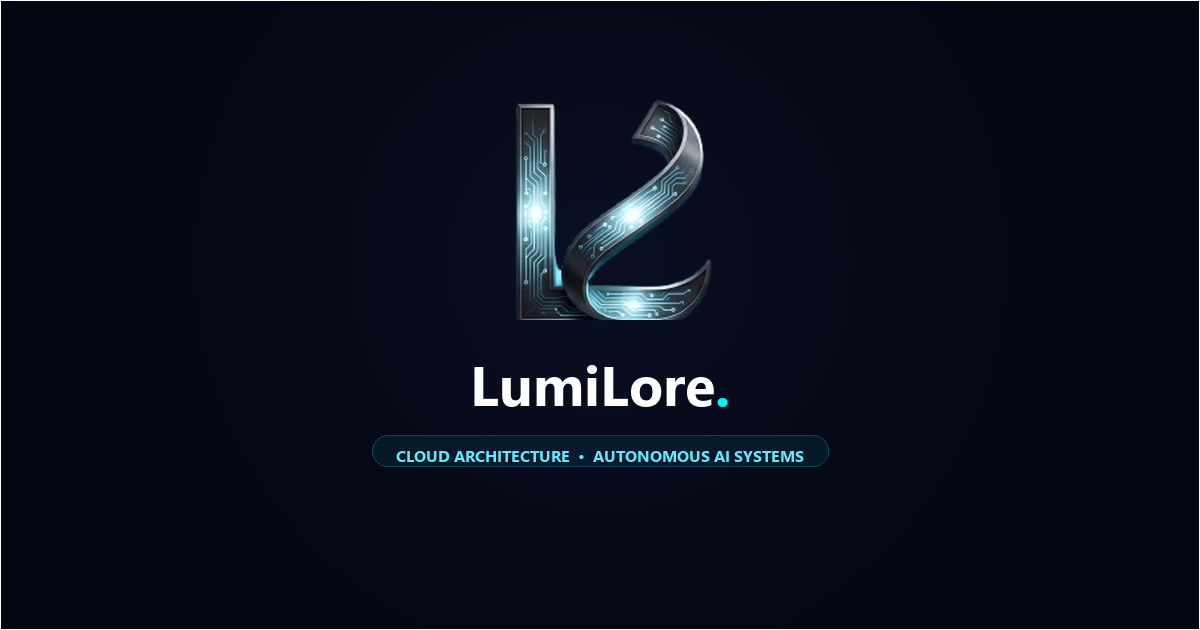
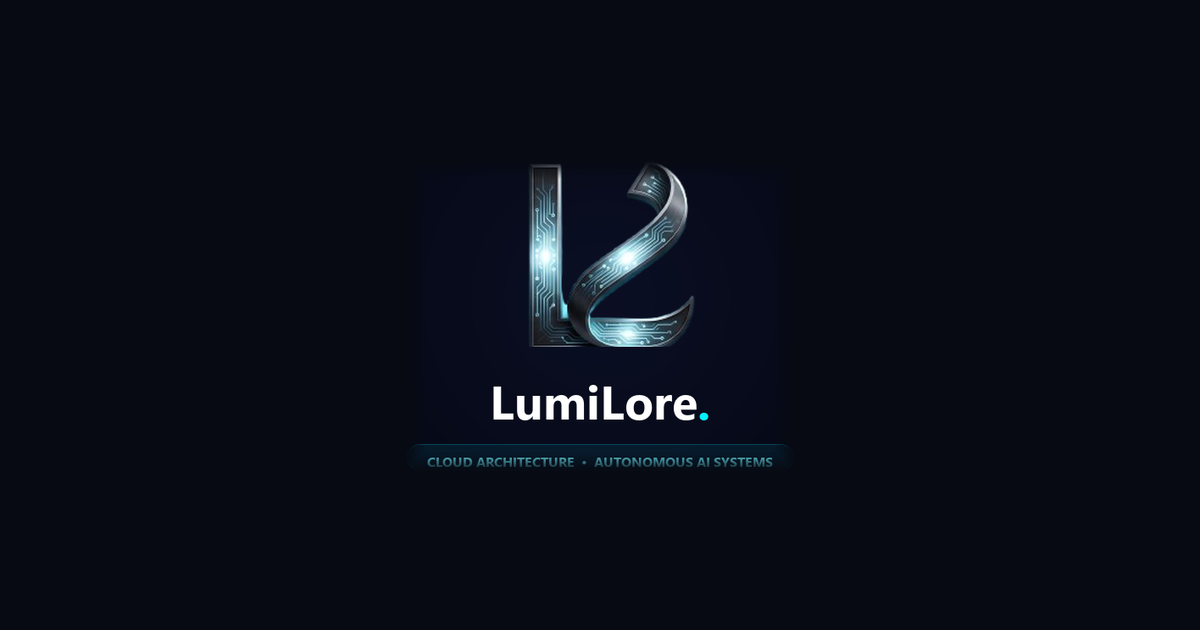
feat(seo): center og-preview within 500x500 safe zone and route meta tags to root og-preview.png

Changed region(s): [[0.3083, 0.1508, 0.6783, 0.754], [0.0, 0.9952, 1.0, 1.0], [0.9867, 0.0, 1.0, 0.0302]]

diff --git a/frontend/_includes/layout.html b/frontend/_includes/layout.html
@@ -13,19 +13,23 @@
   <meta property="og:url" content="https://main.d324aep99upgew.amplifyapp.com/">
   <meta property="og:title" content="LumiLore Technologies — Cloud Architecture & AI Systems">
   <meta property="og:description" content="Pairing certified cloud architecture with multi-step AI agents to eliminate manual tasks and scale your enterprise infinitely.">
-  <meta property="og:image" content="https://main.d324aep99upgew.amplifyapp.com/assets/og-preview.png">
-  <meta property="og:image:secure_url" content="https://main.d324aep99upgew.amplifyapp.com/assets/og-preview.png">
+  <meta property="og:image" content="https://main.d324aep99upgew.amplifyapp.com/og-preview.png">
+  <meta property="og:image:secure_url" content="https://main.d324aep99upgew.amplifyapp.com/og-preview.png">
   <meta property="og:image:type" content="image/png">
   <meta property="og:image:width" content="1200">
   <meta property="og:image:height" content="630">
   <meta property="og:image:alt" content="LumiLore Technologies — Cloud Architecture & AI Intelligent Systems">
+
+  <!-- Fallback & Mobile Messaging Meta Tags (WhatsApp, iMessage, SMS, RCS, Google) -->
+  <link rel="image_src" href="https://main.d324aep99upgew.amplifyapp.com/og-preview.png">
+  <meta itemprop="image" content="https://main.d324aep99upgew.amplifyapp.com/og-preview.png">
 
   <!-- Twitter Card -->
   <meta name="twitter:card" content="summary_large_image">
   <meta name="twitter:url" content="https://main.d324aep99upgew.amplifyapp.com/">
   <meta name="twitter:title" content="LumiLore Technologies — Cloud Architecture & AI Systems">
   <meta name="twitter:description" content="Pairing certified cloud architecture with multi-step AI agents to eliminate manual tasks and scale your enterprise infinitely.">
-  <meta name="twitter:image" content="https://main.d324aep99upgew.amplifyapp.com/assets/og-preview.png">
+  <meta name="twitter:image" content="https://main.d324aep99upgew.amplifyapp.com/og-preview.png">
   
   <!-- Enterprise Content Security Policy (Layer 3: DOM Hardening) -->
   <meta http-equiv="Content-Security-Policy" content="default-src 'self'; script-src 'self' 'unsafe-inline' https://cdnjs.cloudflare.com https://cdn.jsdelivr.net; style-src 'self' 'unsafe-inline' https://fonts.googleapis.com https://cdn.jsdelivr.net; font-src 'self' https://fonts.gstatic.com; img-src 'self' data: blob: https:; media-src 'self' data: blob:; connect-src 'self' https://*.amazonaws.com; object-src 'none'; base-uri 'self';">

diff --git a/.eleventy.js b/.eleventy.js
@@ -1,10 +1,34 @@
+const fs = require('fs');
+const path = require('path');
+
 module.exports = function(eleventyConfig) {
   eleventyConfig.addPassthroughCopy("public");
   eleventyConfig.addPassthroughCopy("frontend/*.webp");
-  eleventyConfig.addPassthroughCopy("frontend/*.png");
   eleventyConfig.addPassthroughCopy("frontend/*.svg");
   eleventyConfig.addPassthroughCopy("frontend/*.css");
   eleventyConfig.addPassthroughCopy("frontend/assets");
+
+  // Explicit root mapping for social previews and metadata
+  eleventyConfig.addPassthroughCopy({ "public/og-preview.png": "og-preview.png" });
+  eleventyConfig.addPassthroughCopy({ "public/og-preview.jpg": "og-preview.jpg" });
+
+  // Hook to ensure dist/ root also receives og-preview assets
+  eleventyConfig.on('eleventy.after', async () => {
+    const distDir = path.resolve(__dirname, 'dist');
+    if (!fs.existsSync(distDir)) {
+      fs.mkdirSync(distDir, { recursive: true });
+    }
+    const publicPreview = path.resolve(__dirname, 'public', 'og-preview.png');
+    const distPreview = path.resolve(distDir, 'og-preview.png');
+    if (fs.existsSync(publicPreview)) {
+      fs.copyFileSync(publicPreview, distPreview);
+    }
+    const publicPreviewJpg = path.resolve(__dirname, 'public', 'og-preview.jpg');
+    const distPreviewJpg = path.resolve(distDir, 'og-preview.jpg');
+    if (fs.existsSync(publicPreviewJpg)) {
+      fs.copyFileSync(publicPreviewJpg, distPreviewJpg);
+    }
+  });
 
   return {
     dir: {
